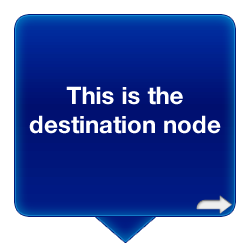
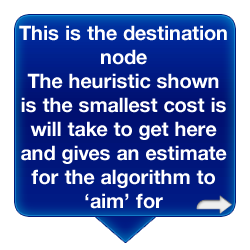
Fixed bugs in heuristic displaing

Changed region(s): [[0.084, 0.196, 0.924, 0.84], [0.056, 0.084, 0.924, 0.168], [0.084, 0.392, 0.14, 0.448]]

diff --git a/core/src/com/b3/gui/RenderTester.java b/core/src/com/b3/gui/RenderTester.java
@@ -15,6 +15,7 @@ import com.badlogic.gdx.graphics.glutils.ShapeRenderer;
 import com.badlogic.gdx.math.MathUtils;
 import com.badlogic.gdx.math.Vector2;
 import com.badlogic.gdx.scenes.scene2d.Stage;
+import com.sun.corba.se.impl.naming.cosnaming.NamingUtils;
 
 import java.util.ArrayList;
 import java.util.List;
@@ -414,7 +415,12 @@ public class RenderTester {
 //        System.out.println("Keep this here, bug somewhere and I don't know where so this is the number it's trying to print just in case it does crash: go onto intensive learning mode and click on pop-ups / show more and try to get numbers to show and try and break it " + number);
 
         if (number < 10) {
-            spriteBatch.draw(numbers[number], (float) (currentNodeClickX - scalingZoom / 2 + 0.5 ), (float) (currentNodeClickY - scalingZoom / 2 + 0.25), scalingZoom, scalingZoom);
+            try {
+                System.out.println("Drawing " + number);
+                spriteBatch.draw(numbers[number], (float) (currentNodeClickX - scalingZoom / 2 + 0.5), (float) (currentNodeClickY - scalingZoom / 2 + 0.25), scalingZoom, scalingZoom);
+            } catch (NullPointerException e) {
+                System.err.println("Error in drawStaticNumberOnScreen in " + number + ". E" + e);
+            }
         } else {
             //if not
             int firstNo = number / 10;
@@ -422,8 +428,13 @@ public class RenderTester {
             float x1 = (float) (currentNodeClickX - scalingZoom / 2 + 0.5);
             float x2 = x1 + (scalingZoom / 20);
 
-            spriteBatch.draw(numbers[firstNo], x1, (float) (currentNodeClickY - scalingZoom / 2 + 0.25), scalingZoom, scalingZoom);
-            spriteBatch.draw(numbers[secondNo], x2, (float) (currentNodeClickY - scalingZoom / 2 + 0.25), scalingZoom, scalingZoom);
+            try {
+                System.out.println("Drawing " + firstNo + " and " + secondNo);
+                spriteBatch.draw(numbers[firstNo], x1, (float) (currentNodeClickY - scalingZoom / 2 + 0.25), scalingZoom, scalingZoom);
+                spriteBatch.draw(numbers[secondNo], x2, (float) (currentNodeClickY - scalingZoom / 2 + 0.25), scalingZoom, scalingZoom);
+            } catch (NullPointerException e) {
+                System.err.println("Error in second drawStaticNumberOnScreen in " + number + ". E" + e);
+            }
         }
     }
 

diff --git a/core/src/com/b3/search/WorldGraph.java b/core/src/com/b3/search/WorldGraph.java
@@ -320,18 +320,32 @@ public class WorldGraph implements Serializable {
 			}
 		}
 
+		shapeRenderer.end();
+
+		shapeRenderer.setProjectionMatrix(camera.combined);
+//		shapeRenderer.begin(ShapeRenderer.ShapeType.Filled);
+		shapeRenderer.begin(ShapeRenderer.ShapeType.Line);
+
 //		// render the path
 		if (showPaths && currentSearch != null) {// && currentSearch.isPathComplete()) {
-			colPath.add((float)0.05,(float)0.05,(float)-0.05,0);
+			colPath.add((float)0.025,(float)0.025,(float)-0.025,0);
 			colPath.a = 1;
 
 			shapeRenderer.setColor(colPath);
-			//shapeRenderer.setColor(new Color(255,208,0,0));
 
 			List<Node> path = currentSearch.getPath();
 			for (int i = 0, pathSize = path.size(); i < pathSize - 1; i++) {
 				Node pathNodeA = path.get(i);
 				Node pathNodeB = path.get(i + 1);
+
+//				float size = (1 - (colPath.r)) / 5;
+//				if (size < 0.025) size = (float) 0.025;
+//
+//				shapeRenderer.rectLine(
+//						pathNodeA.getPoint().x, pathNodeA.getPoint().y,
+//						pathNodeB.getPoint().x, pathNodeB.getPoint().y,
+//						size
+//				);
 
 				shapeRenderer.line(
 						pathNodeA.getPoint().x, pathNodeA.getPoint().y,

diff --git a/core/src/com/b3/world/World.java b/core/src/com/b3/world/World.java
@@ -298,7 +298,21 @@ public class World implements Disposable {
 
 		worldGraph.setLearningModeNext(SearchAlgorithm.A_STAR);
 		worldGraph.setCurrentSearch(agent, behaviour.getTicker());
+//
+//		for (int i = 0; i < 500; i++) {
+//			Agent a = spawnAgent(generateRandomTile());
+//			BehaviourWander b = new BehaviourWander(a);
+//			a.setBehaviour(b);
+//		}
+	}
 
+	private Vector2 generateRandomTile() {
+		int x, y;
+		do {
+			x = Utils.RANDOM.nextInt(worldGraph.getMaxXValue());
+			y = Utils.RANDOM.nextInt(worldGraph.getMaxYValue());
+		} while (!worldGraph.hasNode(new Point(x, y)));
+		return new Vector2(x, y);
 	}
 
 	/**

diff --git a/core/src/com/b3/search/SearchTicker.java b/core/src/com/b3/search/SearchTicker.java
@@ -144,6 +144,8 @@ public class SearchTicker {
 	 */
 	public void tick() {
 
+		System.out.println(lastFrontier.size());
+
 		Float timeBetweenTicks;
 		if (isPaused())
 			timeBetweenTicks = Config.getFloat(ConfigKey.TIME_BETWEEN_TICKS_MAX);
